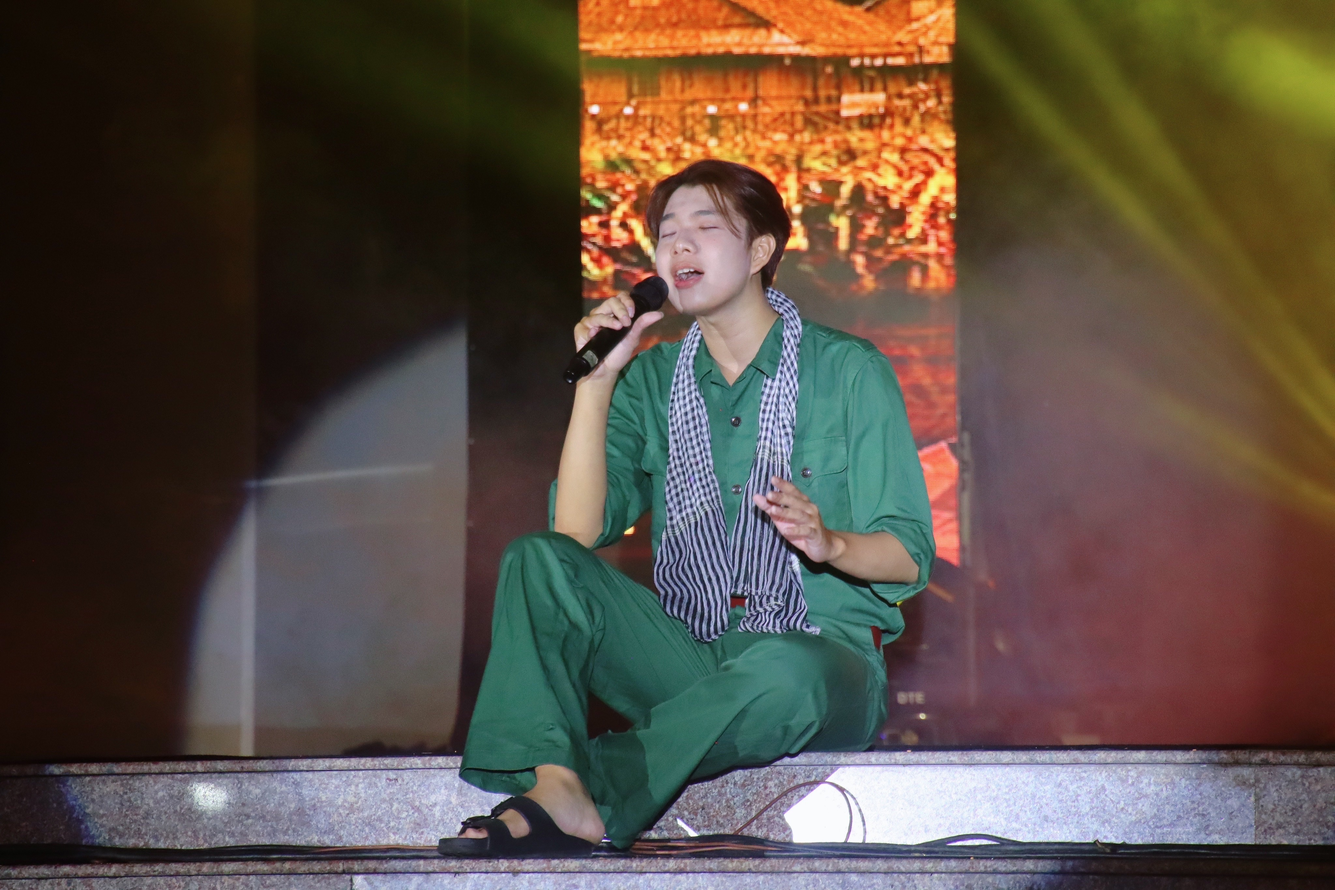
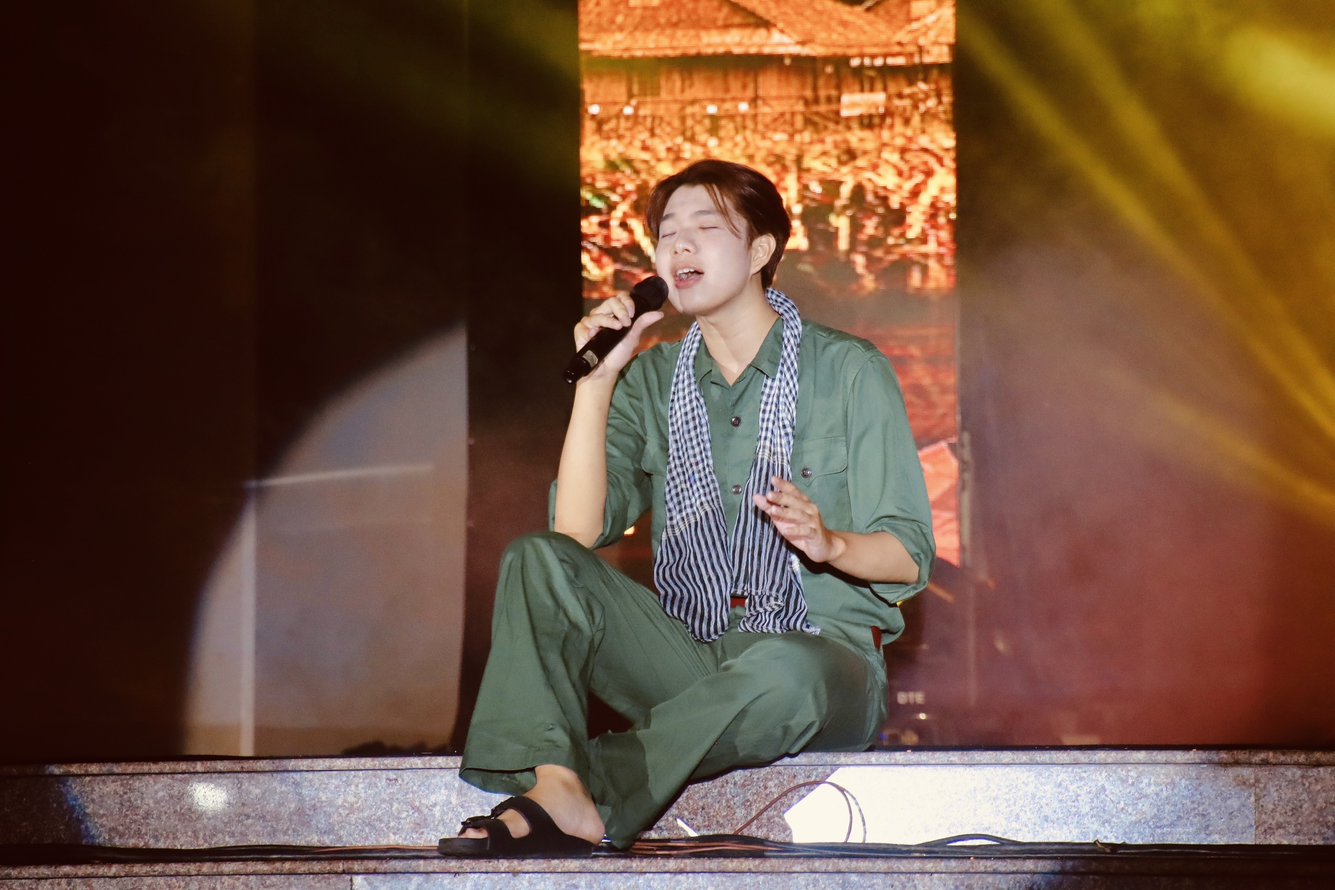
fix(photo-list-animate.tsx): update image source extension from .JPG to .jpg for consistency fix(photo-list-animate.tsx): correct image path to reflect the updated file format fix(photo-me/12.JPG): replace the original image with a new version for improved quality

diff --git a/src/features/profile/photo-list-animate.tsx b/src/features/profile/photo-list-animate.tsx
@@ -18,7 +18,7 @@ export function PhotoListAnimate() {
         "With heart and unity, the IT Department brings a performance full of passion and teamwork. Together, we don’t just code — we create, connect, and shine.",
       title: "Ca Múa Nhạc AGU",
       time: "16/5/2025",
-      src: "/img/photo-me/12.JPG",
+      src: "/img/photo-me/12.jpg",
     },
     {
       quote:
